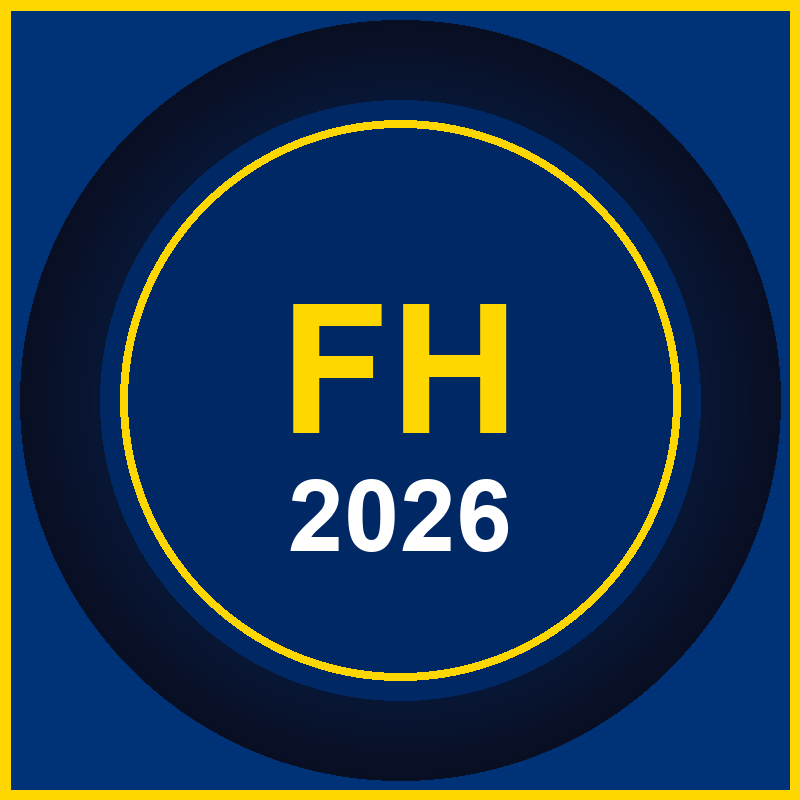
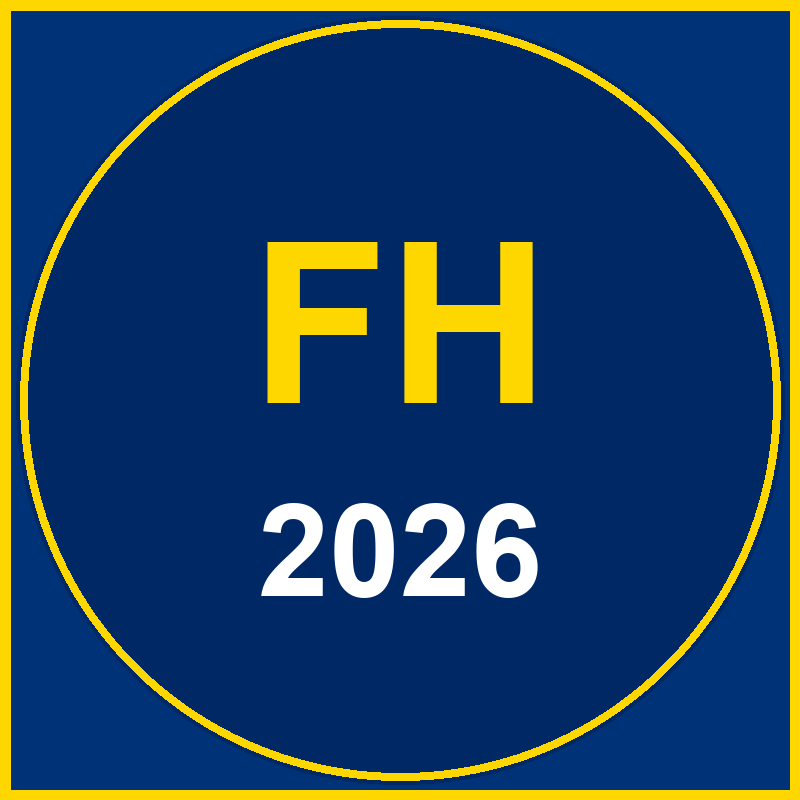
Added 150x150 profile pic for YouTube recommendation

diff --git a/src/channel_assets.py b/src/channel_assets.py
@@ -149,40 +149,31 @@ def create_banner(output_path):
 
 
 def create_profile_pic(output_path):
-    W, H = 800, 800
-    img = Image.new("RGB", (W, H), (0, 50, 120))
-    draw = ImageDraw.Draw(img)
-
-    draw.rectangle([0, 0, W, H], fill=(0, 50, 120))
-
-    for r in range(380, 0, -1):
-        ratio = r / 380
-        cr = int(0 + (10 - 0) * ratio)
-        cg = int(50 + (15 - 50) * ratio)
-        cb = int(120 + (35 - 120) * ratio)
-        draw.ellipse([W // 2 - r, H // 2 - r, W // 2 + r, H // 2 + r], fill=(cr, cg, cb))
-
-    draw.ellipse([W // 2 - 300, H // 2 - 300, W // 2 + 300, H // 2 + 300], fill=(0, 40, 100))
-    draw.ellipse([W // 2 - 280, H // 2 - 280, W // 2 + 280, H // 2 + 280], outline=(255, 215, 0), width=8)
-
-    font_huge = _get_font(180)
-    font_big = _get_font(100)
-
-    bbox = draw.textbbox((0, 0), "FH", font=font_huge)
-    tw = bbox[2] - bbox[0]
-    draw.text((W // 2 - tw // 2, H // 2 - 130), "FH", fill=(255, 215, 0), font=font_huge)
-
-    bbox2 = draw.textbbox((0, 0), "2026", font=font_big)
-    tw2 = bbox2[2] - bbox2[0]
-    draw.text((W // 2 - tw2 // 2, H // 2 + 60), "2026", fill="white", font=font_big)
-
-    draw.rectangle([0, 0, W, 10], fill=(255, 215, 0))
-    draw.rectangle([0, H - 10, W, H], fill=(255, 215, 0))
-    draw.rectangle([0, 0, 10, H], fill=(255, 215, 0))
-    draw.rectangle([W - 10, 0, W, H], fill=(255, 215, 0))
-
-    img.save(output_path, quality=95)
-    print(f"  Profile pic saved: {output_path}")
+    sizes = [(800, 800, output_path), (150, 150, output_path.replace(".png", "_150.png"))]
+    for W, H, path in sizes:
+        img = Image.new("RGB", (W, H), (0, 50, 120))
+        draw = ImageDraw.Draw(img)
+        draw.rectangle([0, 0, W, H], fill=(0, 50, 120))
+        border = max(2, W // 50)
+        draw.ellipse([border, border, W - border, H - border], fill=(0, 40, 100))
+        draw.ellipse([border + 4, border + 4, W - border - 4, H - border - 4], outline=(255, 215, 0), width=max(2, W // 100))
+        font_size = max(20, int(W * 0.28))
+        font_huge = _get_font(font_size)
+        bbox = draw.textbbox((0, 0), "FH", font=font_huge)
+        tw = bbox[2] - bbox[0]
+        draw.text((W // 2 - tw // 2, int(H * 0.25)), "FH", fill=(255, 215, 0), font=font_huge)
+        font_year = max(14, int(W * 0.16))
+        font_small = _get_font(font_year)
+        bbox2 = draw.textbbox((0, 0), "2026", font=font_small)
+        tw2 = bbox2[2] - bbox2[0]
+        draw.text((W // 2 - tw2 // 2, int(H * 0.6)), "2026", fill="white", font=font_small)
+        gold = max(1, W // 80)
+        draw.rectangle([0, 0, W, gold], fill=(255, 215, 0))
+        draw.rectangle([0, H - gold, W, H], fill=(255, 215, 0))
+        draw.rectangle([0, 0, gold, H], fill=(255, 215, 0))
+        draw.rectangle([W - gold, 0, W, H], fill=(255, 215, 0))
+        img.save(path, quality=95)
+        print(f"  Profile pic saved: {path}")
     return output_path
 
 